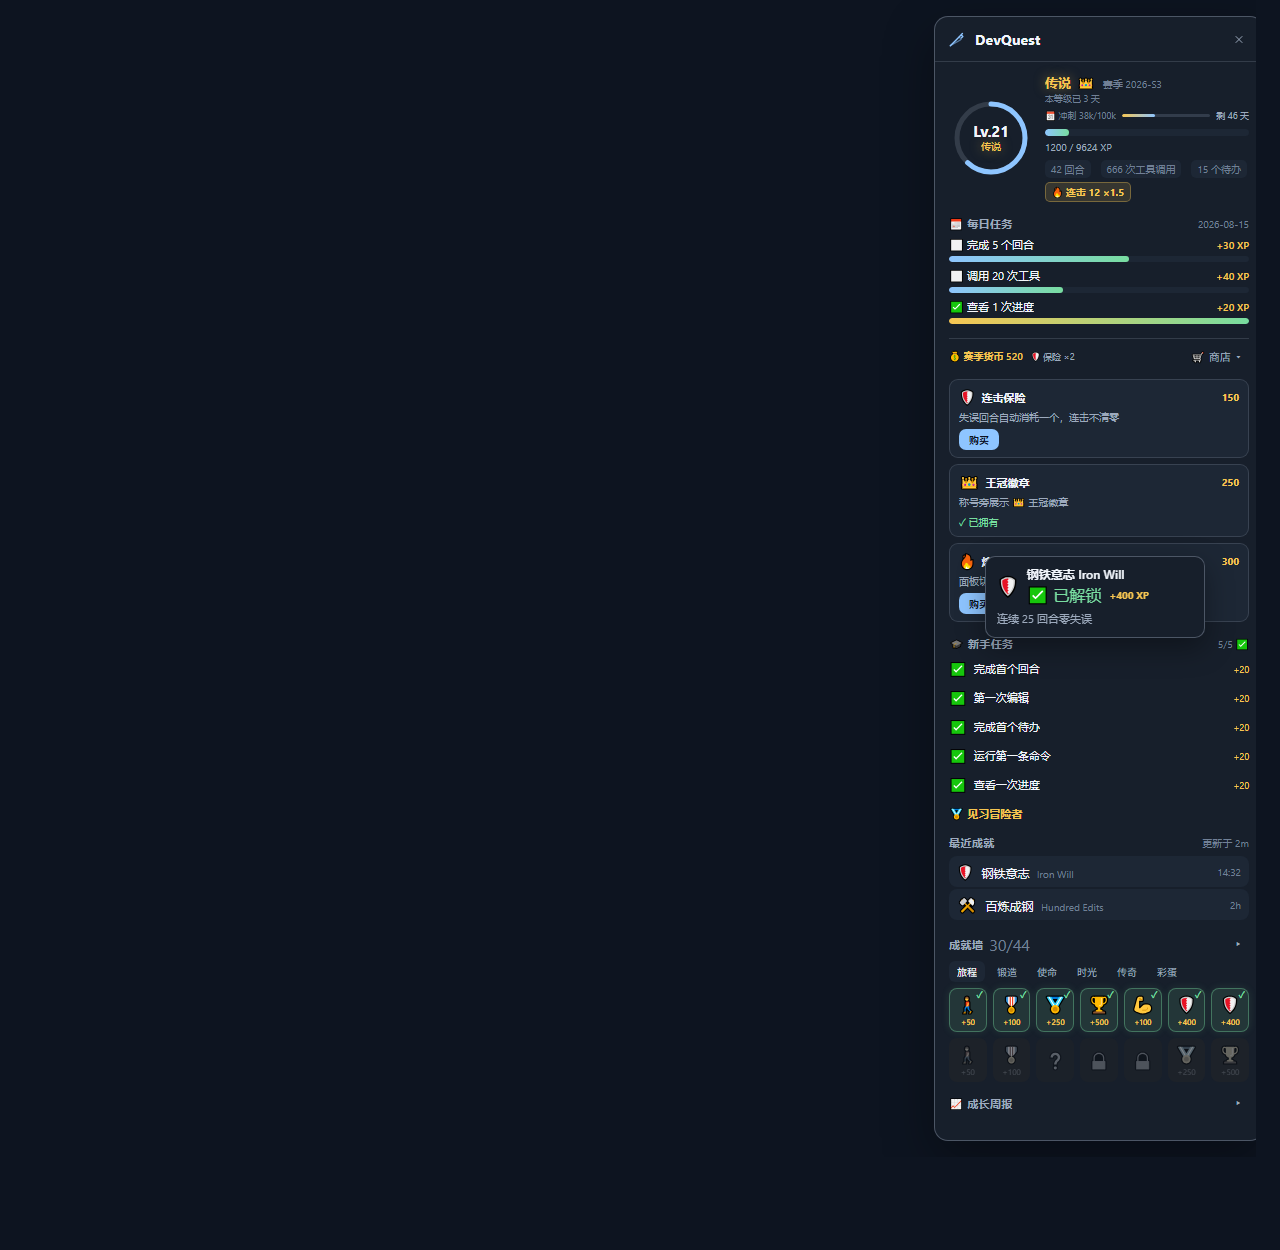
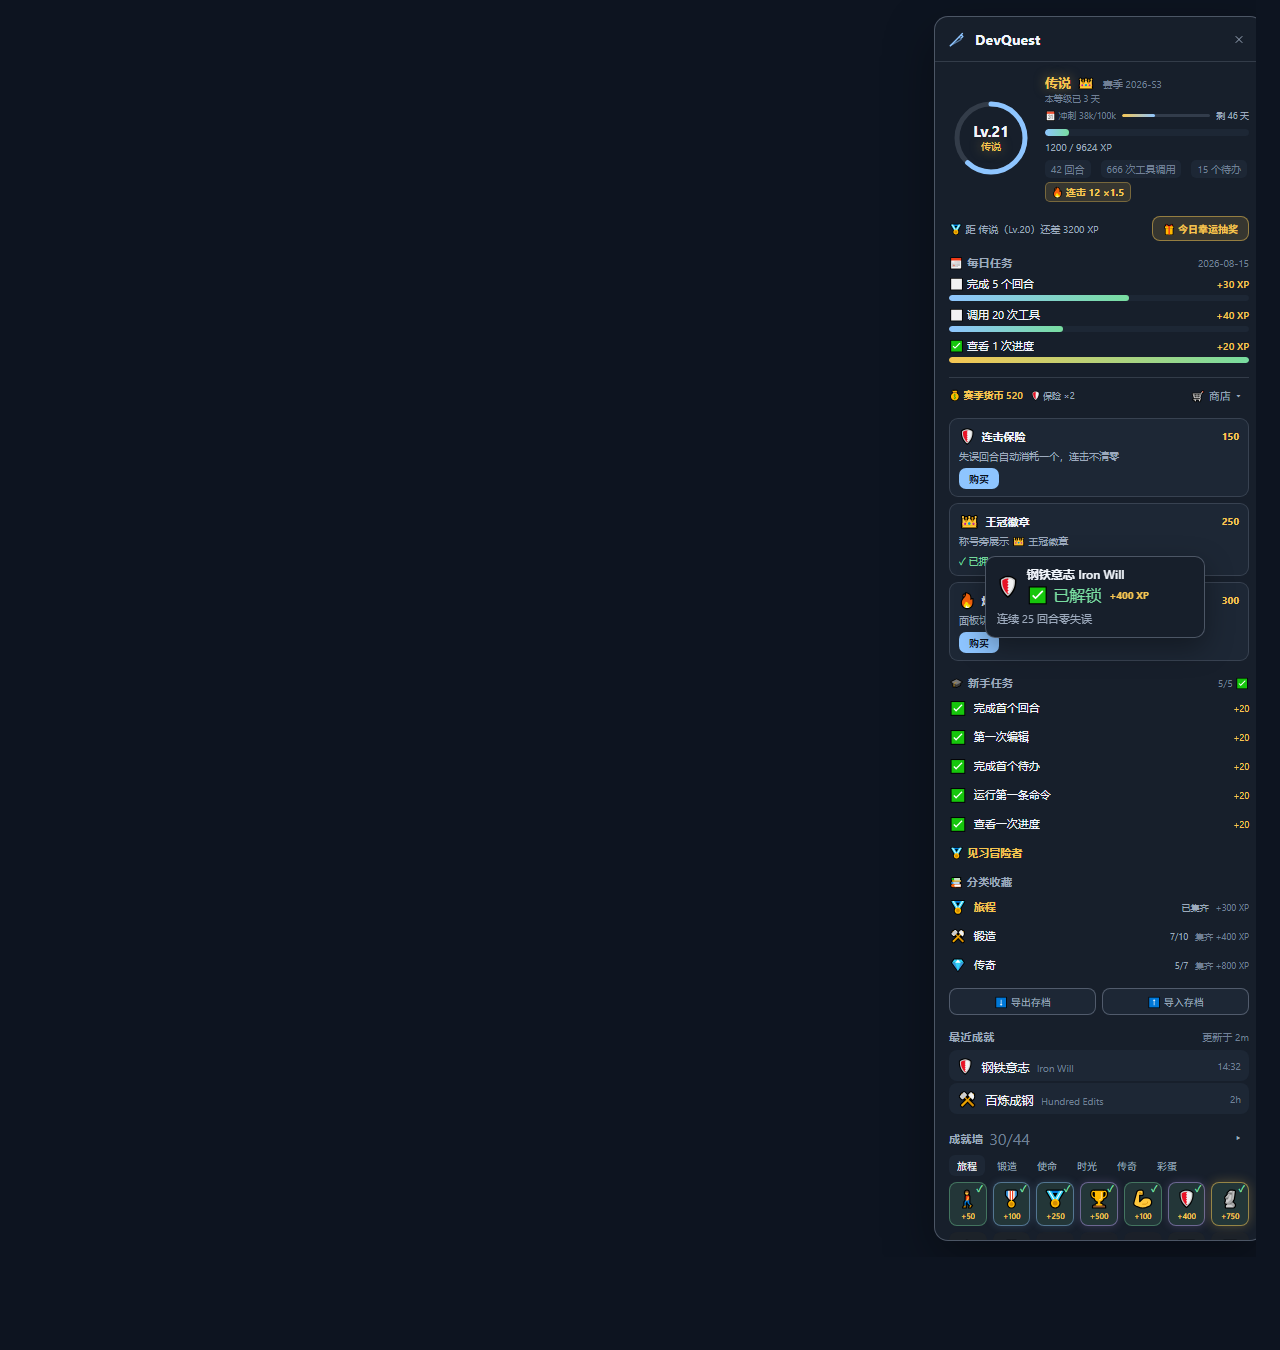
docs: README 同步 v0.6.0 五件套 + 重新渲染截图
- 新增小节：每日幸运抽奖（奖品概率表）/ 稀有度分级 / 分类收藏奖励（各分类 XP 表）
- ASCII 面板图加入 下一称号预览/幸运抽奖/分类收藏/存档导出导入/周报回合数
- toast 示例展示稀有度标注；工具段加 devquest_shop
- mock.html 同步新 UI，重新渲染 panel.png / toast.png

diff --git a/screenshots/mock.html b/screenshots/mock.html
@@ -23,7 +23,7 @@
   body {
     background: var(--canvas);
     font-family: "Segoe UI", system-ui, -apple-system, "PingFang SC", "Microsoft YaHei", sans-serif;
-    width: 1280px; height: 1210px; position: relative; overflow: hidden;
+    width: 1280px; height: 1310px; position: relative; overflow: hidden;
   }
 
   /* ===== 侧边栏 rail ===== */
@@ -111,6 +111,34 @@
   .level-since { display: block; font-size: 9px; color: var(--quiet); margin-top: 1px; }
   .title-badge { font-size: 13px; line-height: 1; margin-left: -2px; }
 
+  /* 下一称号 + 幸运抽奖 */
+  .next-title-row { display: flex; align-items: center; gap: 8px; flex-wrap: wrap; }
+  .next-title { font-size: 10px; color: var(--muted); }
+  .lucky-btn {
+    margin-left: auto; padding: 4px 10px; font-size: 10px; font-weight: 600;
+    border: 1px solid color-mix(in srgb, var(--gold) 50%, transparent);
+    border-radius: 8px; background: color-mix(in srgb, var(--gold) 14%, transparent);
+    color: var(--gold); cursor: pointer;
+  }
+
+  /* 分类收藏 */
+  .coll-row { display: flex; align-items: center; gap: 7px; padding: 3px 0; }
+  .coll-name { flex: 1; font-size: 11px; color: var(--text); }
+  .coll-name.done { color: var(--gold); font-weight: 700; }
+  .coll-progress { font-size: 9px; color: var(--muted); }
+  .coll-reward { font-size: 9px; color: var(--quiet); }
+
+  /* 存档管理 */
+  .save-bar { display: flex; gap: 6px; }
+  .save-btn {
+    flex: 1; padding: 5px 8px; font-size: 10px; text-align: center;
+    border: 1px solid var(--border-strong); border-radius: 8px;
+    background: var(--row); color: var(--muted); cursor: pointer;
+  }
+
+  /* 周报回合数 */
+  .report-turn { font-size: 8px; color: var(--quiet); }
+
   /* 商店 */
   .shop-bar { display: flex; align-items: center; gap: 8px; margin-top: 8px; padding-top: 8px; border-top: 1px solid var(--border); }
   .shop-balance { font-size: 10px; color: var(--gold); font-weight: 600; }
@@ -177,6 +205,10 @@
   .cell .check { position: absolute; top: 1px; right: 3px; font-size: 9px; font-weight: 700; line-height: 1; color: var(--green); }
   .cell-xp { font-size: 8px; color: var(--quiet); }
   .cell.unlocked .cell-xp { color: var(--gold); font-weight: 600; }
+  .cell.rarity-common { box-shadow: none; }
+  .cell.rarity-rare { border-color: color-mix(in srgb, var(--accent) 45%, transparent); box-shadow: 0 0 8px color-mix(in srgb, var(--accent) 18%, transparent); }
+  .cell.rarity-epic { border-color: color-mix(in srgb, #c5a3ff 45%, transparent); box-shadow: 0 0 10px color-mix(in srgb, #c5a3ff 20%, transparent); }
+  .cell.rarity-legendary { border-color: color-mix(in srgb, var(--gold) 55%, transparent); box-shadow: 0 0 12px color-mix(in srgb, var(--gold) 28%, transparent); }
 
   /* 成就悬浮简介（示意） */
   .tip {
@@ -278,6 +310,11 @@
         </div>
       </div>
 
+      <div class="next-title-row">
+        <span class="next-title">🏅 距 传说（Lv.20）还差 3200 XP</span>
+        <button class="lucky-btn">🎁 今日幸运抽奖</button>
+      </div>
+
       <div class="section">
         <div class="sec-head">
           <span class="sec-title">📅 每日任务</span>
@@ -334,6 +371,19 @@
 
       <div class="section">
         <div class="sec-head">
+          <span class="sec-title">📚 分类收藏</span>
+        </div>
+        <div class="coll-row"><span style="font-size:13px">🏅</span><span class="coll-name done">旅程</span><span class="coll-progress">已集齐</span><span class="coll-reward">+300 XP</span></div>
+        <div class="coll-row"><span style="font-size:13px">⚒</span><span class="coll-name">锻造</span><span class="coll-progress">7/10</span><span class="coll-reward">集齐 +400 XP</span></div>
+        <div class="coll-row"><span style="font-size:13px">💎</span><span class="coll-name">传奇</span><span class="coll-progress">5/7</span><span class="coll-reward">集齐 +800 XP</span></div>
+        <div class="save-bar" style="margin-top:6px">
+          <button class="save-btn">⬇ 导出存档</button>
+          <button class="save-btn">⬆ 导入存档</button>
+        </div>
+      </div>
+
+      <div class="section">
+        <div class="sec-head">
           <span class="sec-title">最近成就</span>
           <span class="sec-date">更新于 2m</span>
         </div>
@@ -353,13 +403,13 @@
           <button class="tab">时光</button><button class="tab">传奇</button><button class="tab">彩蛋</button>
         </div>
         <div class="wall-grid">
-          <div class="cell unlocked">🚶<span class="check">✓</span><span class="cell-xp">+50</span></div>
-          <div class="cell unlocked">🎖<span class="check">✓</span><span class="cell-xp">+100</span></div>
-          <div class="cell unlocked">🏅<span class="check">✓</span><span class="cell-xp">+250</span></div>
-          <div class="cell unlocked">🏆<span class="check">✓</span><span class="cell-xp">+500</span></div>
-          <div class="cell unlocked">💪<span class="check">✓</span><span class="cell-xp">+100</span></div>
-          <div class="cell unlocked">🛡<span class="check">✓</span><span class="cell-xp">+400</span></div>
-          <div class="cell unlocked">🛡<span class="check">✓</span><span class="cell-xp">+400</span></div>
+          <div class="cell unlocked rarity-common">🚶<span class="check">✓</span><span class="cell-xp">+50</span></div>
+          <div class="cell unlocked rarity-rare">🎖<span class="check">✓</span><span class="cell-xp">+100</span></div>
+          <div class="cell unlocked rarity-rare">🏅<span class="check">✓</span><span class="cell-xp">+250</span></div>
+          <div class="cell unlocked rarity-epic">🏆<span class="check">✓</span><span class="cell-xp">+500</span></div>
+          <div class="cell unlocked rarity-common">💪<span class="check">✓</span><span class="cell-xp">+100</span></div>
+          <div class="cell unlocked rarity-epic">🛡<span class="check">✓</span><span class="cell-xp">+400</span></div>
+          <div class="cell unlocked rarity-legendary">🗿<span class="check">✓</span><span class="cell-xp">+750</span></div>
           <div class="cell locked">🚶<span class="cell-xp">+50</span></div>
           <div class="cell locked">🎖<span class="cell-xp">+100</span></div>
           <div class="cell hidden-locked">❔</div>
@@ -376,15 +426,15 @@
           <button class="wall-toggle">▸</button>
         </div>
         <div class="report-bars">
-          <div class="report-col"><div class="report-wrap"><div class="report-bar" style="height:40%"></div></div><span class="report-date">08-09</span></div>
-          <div class="report-col"><div class="report-wrap"><div class="report-bar" style="height:22%"></div></div><span class="report-date">08-10</span></div>
-          <div class="report-col"><div class="report-wrap"><div class="report-bar" style="height:55%"></div></div><span class="report-date">08-11</span></div>
-          <div class="report-col"><div class="report-wrap"><div class="report-bar" style="height:34%"></div></div><span class="report-date">08-12</span></div>
-          <div class="report-col"><div class="report-wrap"><div class="report-bar" style="height:72%"></div></div><span class="report-date">08-13</span></div>
-          <div class="report-col"><div class="report-wrap"><div class="report-bar" style="height:48%"></div></div><span class="report-date">08-14</span></div>
-          <div class="report-col"><div class="report-wrap"><div class="report-bar" style="height:100%"></div></div><span class="report-date">08-15</span></div>
+          <div class="report-col"><div class="report-wrap"><div class="report-bar" style="height:40%"></div></div><span class="report-turn">6</span><span class="report-date">08-09</span></div>
+          <div class="report-col"><div class="report-wrap"><div class="report-bar" style="height:22%"></div></div><span class="report-turn">3</span><span class="report-date">08-10</span></div>
+          <div class="report-col"><div class="report-wrap"><div class="report-bar" style="height:55%"></div></div><span class="report-turn">9</span><span class="report-date">08-11</span></div>
+          <div class="report-col"><div class="report-wrap"><div class="report-bar" style="height:34%"></div></div><span class="report-turn">5</span><span class="report-date">08-12</span></div>
+          <div class="report-col"><div class="report-wrap"><div class="report-bar" style="height:72%"></div></div><span class="report-turn">11</span><span class="report-date">08-13</span></div>
+          <div class="report-col"><div class="report-wrap"><div class="report-bar" style="height:48%"></div></div><span class="report-turn">7</span><span class="report-date">08-14</span></div>
+          <div class="report-col"><div class="report-wrap"><div class="report-bar" style="height:100%"></div></div><span class="report-turn">16</span><span class="report-date">08-15</span></div>
         </div>
-        <div class="report-legend">最近 7 天 XP</div>
+        <div class="report-legend">最近 7 天 XP（柱下标为当日回合数）</div>
       </div>
 
     </div>
@@ -405,11 +455,11 @@
     <div class="tip-desc">连续 25 回合零失误</div>
   </div>
 
-  <!-- toast -->
-  <div class="toast">
+  <!-- toast：史诗稀有度示例 -->
+  <div class="toast" style="border-color:color-mix(in srgb,#c5a3ff 55%,transparent);box-shadow:0 0 14px color-mix(in srgb,#c5a3ff 25%,transparent)">
     <div class="toast-icon">🛡</div>
     <div style="min-width:0">
-      <div class="toast-title">🏆 成就解锁！</div>
+      <div class="toast-title">🏆 成就解锁！ · 史诗</div>
       <div class="toast-name">钢铁意志 <em style="font-size:10px;color:var(--quiet);font-style:normal;margin-left:4px">Iron Will</em></div>
       <div class="toast-desc">连续 25 回合零失误 · +400 XP</div>
     </div>

diff --git a/README.md b/README.md
@@ -5,7 +5,7 @@
 > 生态里全是给你摸鱼的小游戏；DevQuest 反其道：**你的工作，就是游戏。**
 
 <p align="center">
-  <strong>📅 每日任务+宝箱</strong> · <strong>🔥 连击加成</strong> · <strong>🛒 赛季商店</strong> · <strong>🏆 44 枚成就+进度</strong> · <strong>🎓 新手任务链</strong> · <strong>📈 成长周报</strong>
+  <strong>📅 每日任务+宝箱</strong> · <strong>🎁 每日幸运抽奖</strong> · <strong>🛒 赛季商店</strong> · <strong>🏆 44 枚成就+稀有度</strong> · <strong>📚 分类收藏</strong> · <strong>📈 成长周报</strong>
 </p>
 
 <p align="center">
@@ -81,6 +81,21 @@
 🎁 全清宝箱已领取         ← 领完后的状态
 ```
 
+### 🎁 每日幸运抽奖
+
+每天**一次免费抽奖**，手气好就是白赚（加权随机）：
+
+| 奖品 | 概率 |
+|---|---|
+| ⚡ +50 XP | 30% |
+| ⚡ +100 XP | 20% |
+| 💰 +100 赛季货币 | 15% |
+| 🛡 连击保险 ×1 | 15% |
+| 🔀 任务重掷 ×1 | 10% |
+| 🌟 +200 XP | 10% |
+
+面板 hero 区下方的金色 **🎁** 按钮，点一下即开，跨天重置——**每天开工先摸一把**。
+
 ### 🔥 连击
 
 连续完成回合触发倍率加成，失误清零——**稳住，别浪**：
@@ -149,6 +164,32 @@ Lv.20+     传说
 - 纯条件成就（如「东山再起」「清道夫」）不显示进度，达成即解锁，保持惊喜
 - **隐藏彩蛋也有渐进揭示**：进度超过一半时，成就墙里的 🔒 会变成 ❔ 轮廓——你知道它快解锁了，但不知道是什么，悬念拉满
 
+**稀有度：成就也分三六九等** 🎨
+
+44 枚成就按达成难度分级，解锁 toast 与成就墙按稀有度**着色 + 光晕**：
+
+```
+普通   常见、上手即有          （初出茅庐 / 首次编辑）
+稀有   需一点积累              （五十回合 / 100 次编辑）
+史诗   需要坚持                （钢铁意志 / 500 次编辑）
+传说   极致成就                （250 回合 / 30 级 / 魔鬼时刻）
+```
+
+**📚 分类收藏：集齐一系，额外大奖**
+
+每个分类的成就全部集齐后，一次性奖励 XP（不重复）：
+
+| 分类 | 成就数 | 集齐奖励 |
+|---|---|---|
+| 旅程 | 9 | +300 XP |
+| 锻造 | 10 | +400 XP |
+| 使命 | 7 | +300 XP |
+| 时光 | 6 | +400 XP |
+| 传奇 | 7 | +800 XP |
+| 彩蛋 | 5 | +500 XP |
+
+面板「分类收藏」区实时显示每分类进度（如 `7/9`），集齐变 🏅 金色高亮——**收集欲拉满**。
+
 ## 🖥 长这样
 
 侧边栏底部 ⚔ 入口（收起态为紧凑图标），点击弹出面板；成就解锁与回合结算时右上角弹出 toast：
@@ -169,6 +210,9 @@ Lv.20+     传说
 │  🗓 冲刺 38k/100k ▓▓▓▓░░ 剩 46 天 │
 │  🔥 连击 12 ×1.5                   │
 │  ───────────────────────────────  │
+│  🏅 距 传说（Lv.20）还差 3200 XP   │ ← 下一称号预览
+│  🎁 今日幸运抽奖                   │ ← 每天一次免费
+│  ───────────────────────────────  │
 │  📅 每日任务 2026-08-15            │
 │  ⬜ 完成 5 个回合   3/5  +30      │
 │  ⬜ 调用 20 次工具  12/20 +40     │
@@ -178,21 +222,23 @@ Lv.20+     传说
 │  ───────────────────────────────  │
 │  🎓 新手任务 5/5 ✅                │ ← 完成显示称号
 │  🏅 见习冒险者                     │
+│  📚 分类收藏  旅程 9/9 🏅 · 锻造 7/10 │ ← 集齐有奖励
+│  ⬇ 导出存档 · ⬆ 导入存档        │ ← 备份/恢复
 │  ───────────────────────────────  │
 │  🎯 最近的里程碑 · 五十回合 35/50  │
 │  ▓▓▓▓▓▓▓▓░░░░░░░░   70%          │
 │  ✨ 钢铁意志 Iron Will             │
-│  [成就墙 30/44 ▸]                 │ ← 格子带进度条、隐藏成就 ❔
-│  📈 成长周报 ▸                    │ ← 7 天 XP 柱状图
+│  [成就墙 30/44 ▸]                 │ ← 稀有度光晕、隐藏成就 ❔
+│  📈 成长周报 ▸                    │ ← 柱状图带回合数
 └────────────────────────────────────┘
 ```
 
-面板可拖拽到任意位置（位置会记住）。右下角的 toast 不只是成就——**每个回合结算都会弹**：
+面板可拖拽到任意位置（位置会记住）。右下角的 toast 不只是成就——**每个回合结算都会弹**，成就 toast 还会按**稀有度**着色（普通/稀有/史诗/传说）：
 
 ```
-⚔ 回合结算                  ⬆ 升级！Lv.22
-+34 XP · 🔥 ×1.5 · 📅 +30     +212 XP
-完成 1 个回合                  新称号 · 传说
+✨ 成就解锁！ · 传说           ⚔ 回合结算        ⬆ 升级！Lv.22
+钢铁意志 Iron Will             +34 XP · 🔥 ×1.5  +212 XP
+连续 25 回合零失误 · +400 XP    完成 1 个回合      新称号 · 传说
 ```
 
 升级瞬间金色高亮，连击燃烧、任务结算、徽章点亮——全是即时的。
@@ -205,11 +251,12 @@ dsh plugin --profile web add "github:lucky8197/dsh-devquest#main"
 
 重启 dsh web → 侧边栏底部出现 ⚔ → 开始你的冒险。
 
-模型也能查进度（连 agent 自己都会好奇）：
+模型也能查进度、逛商店（连 agent 自己都会好奇）：
 
 ```
 devquest_status        # 等级 / XP / 连击 / 今日任务
 devquest_achievements  # 44 枚成就全清单与解锁状态
+devquest_shop          # 赛季商店：查余额/商品，buy=<商品id> 直接购买
 devquest_reset         # 重置存档（危险，需 confirm=true）
 ```
 
